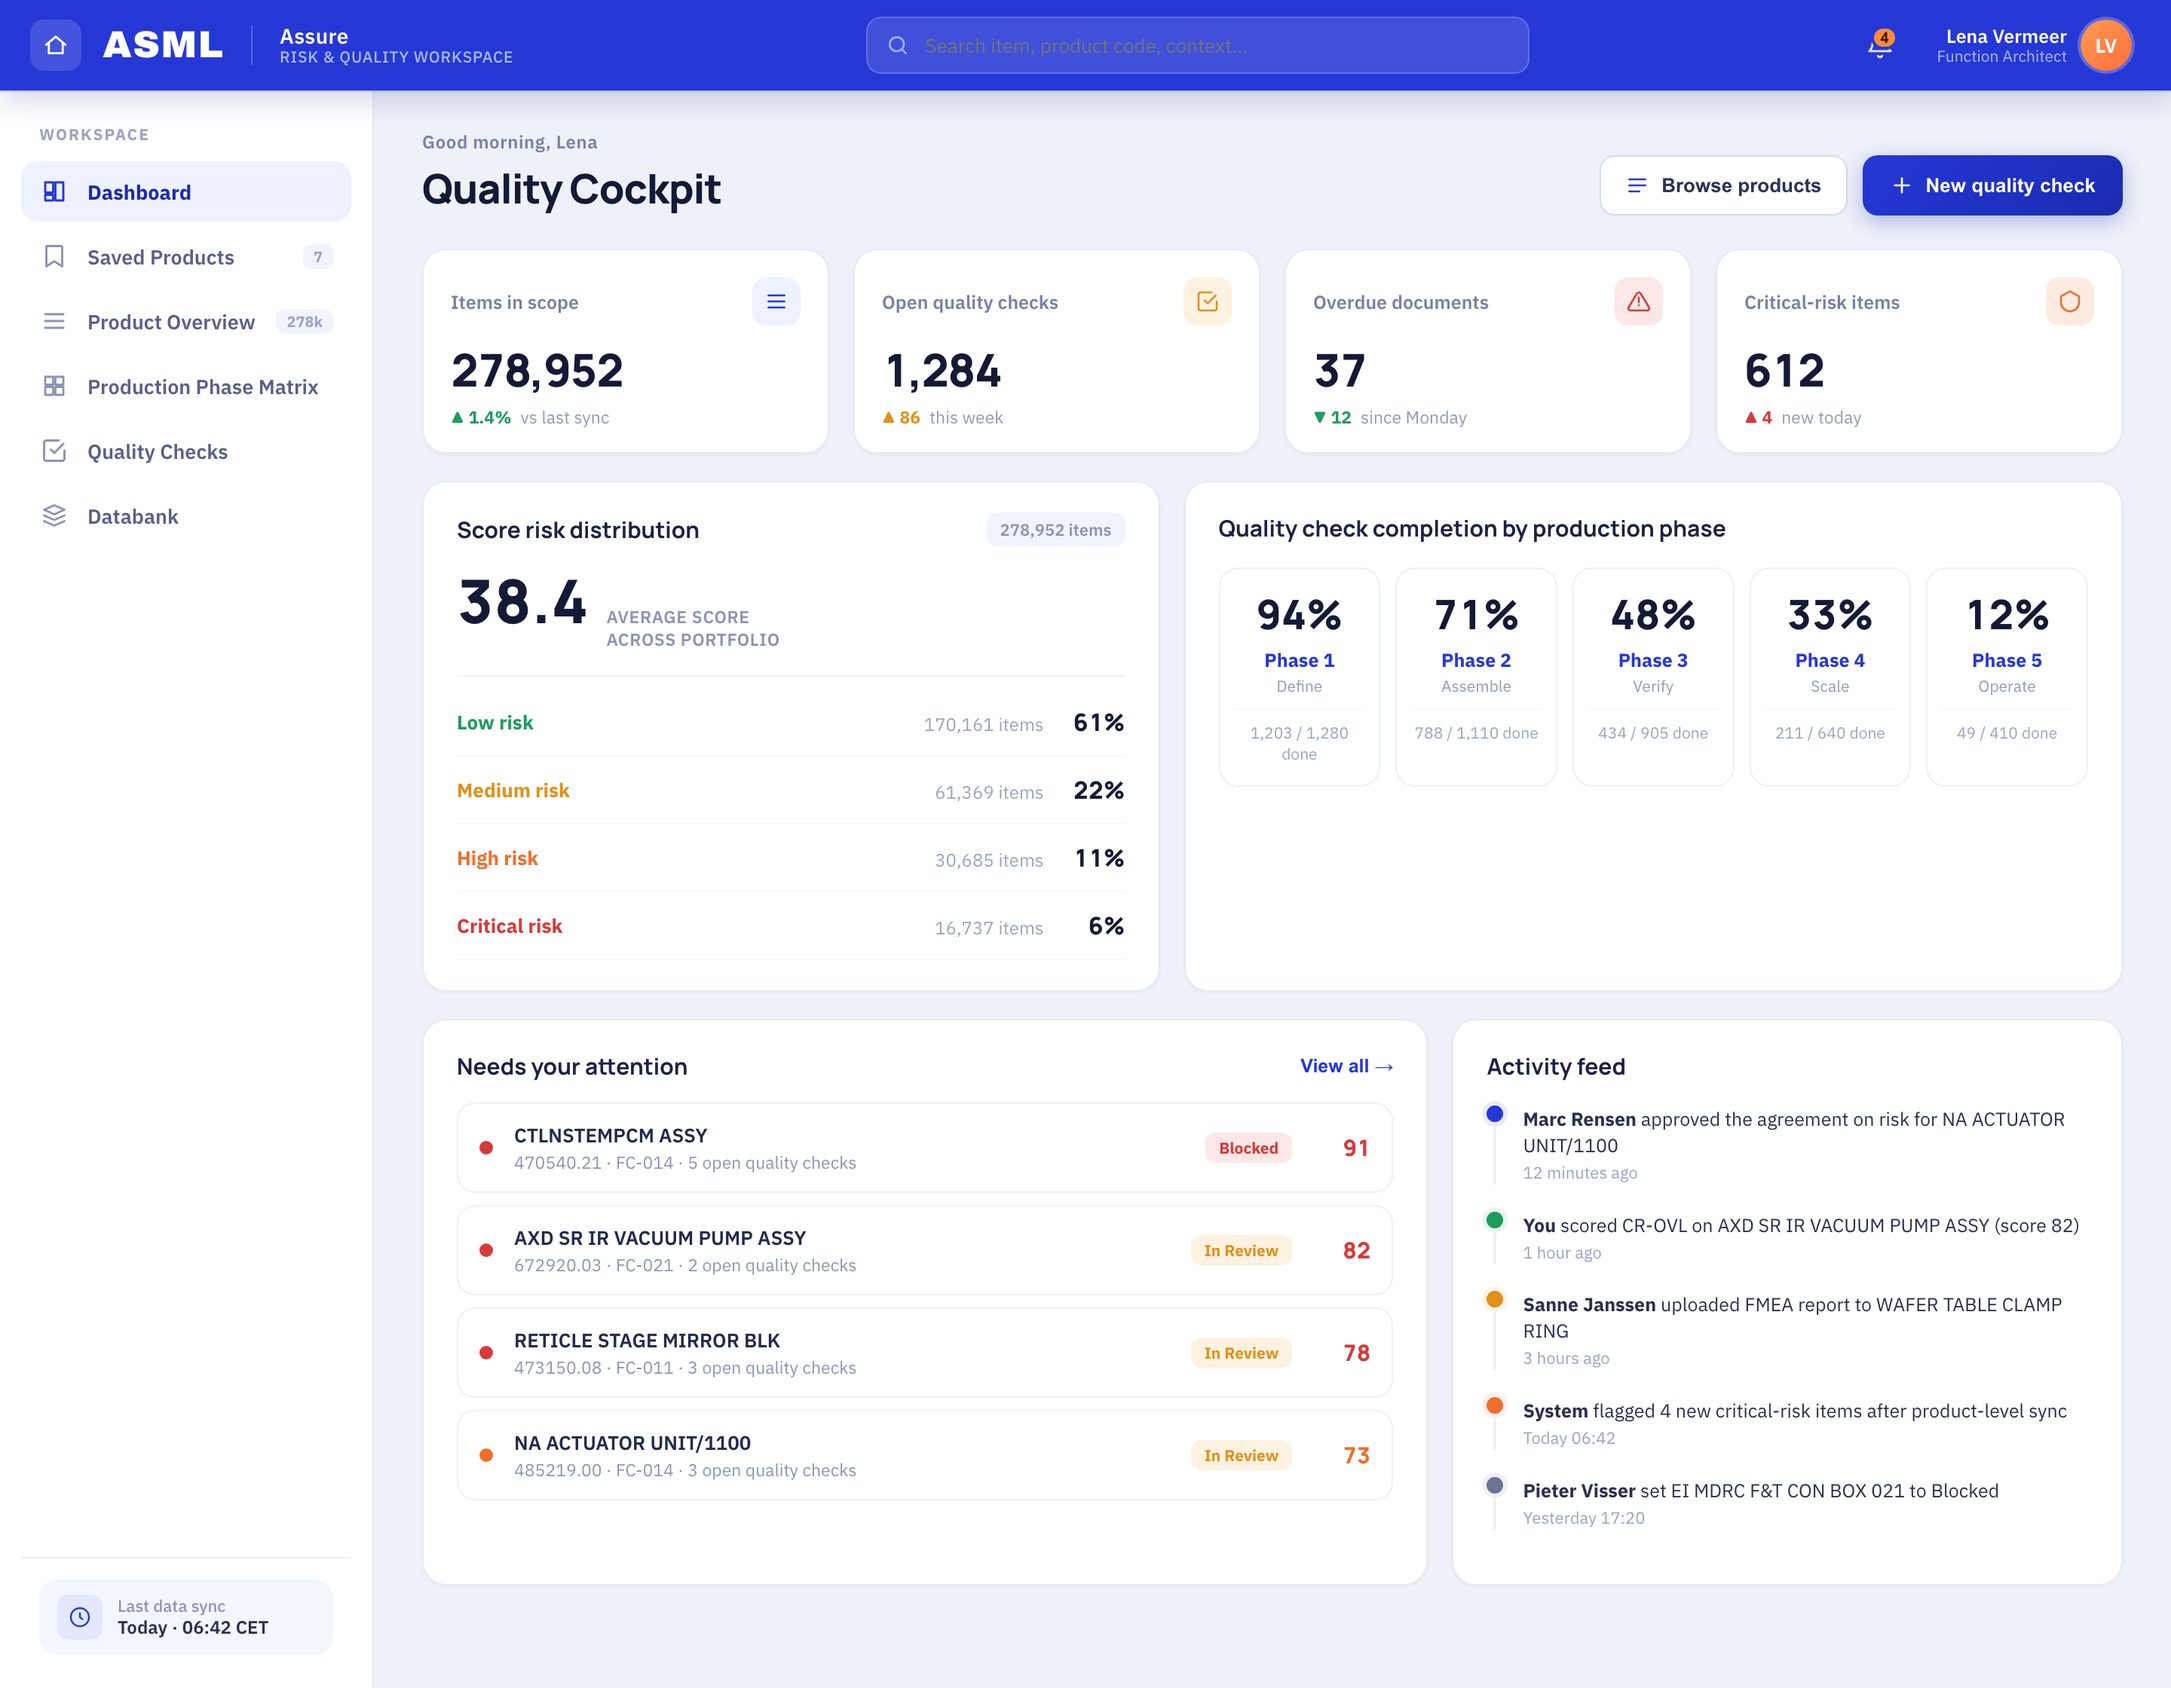
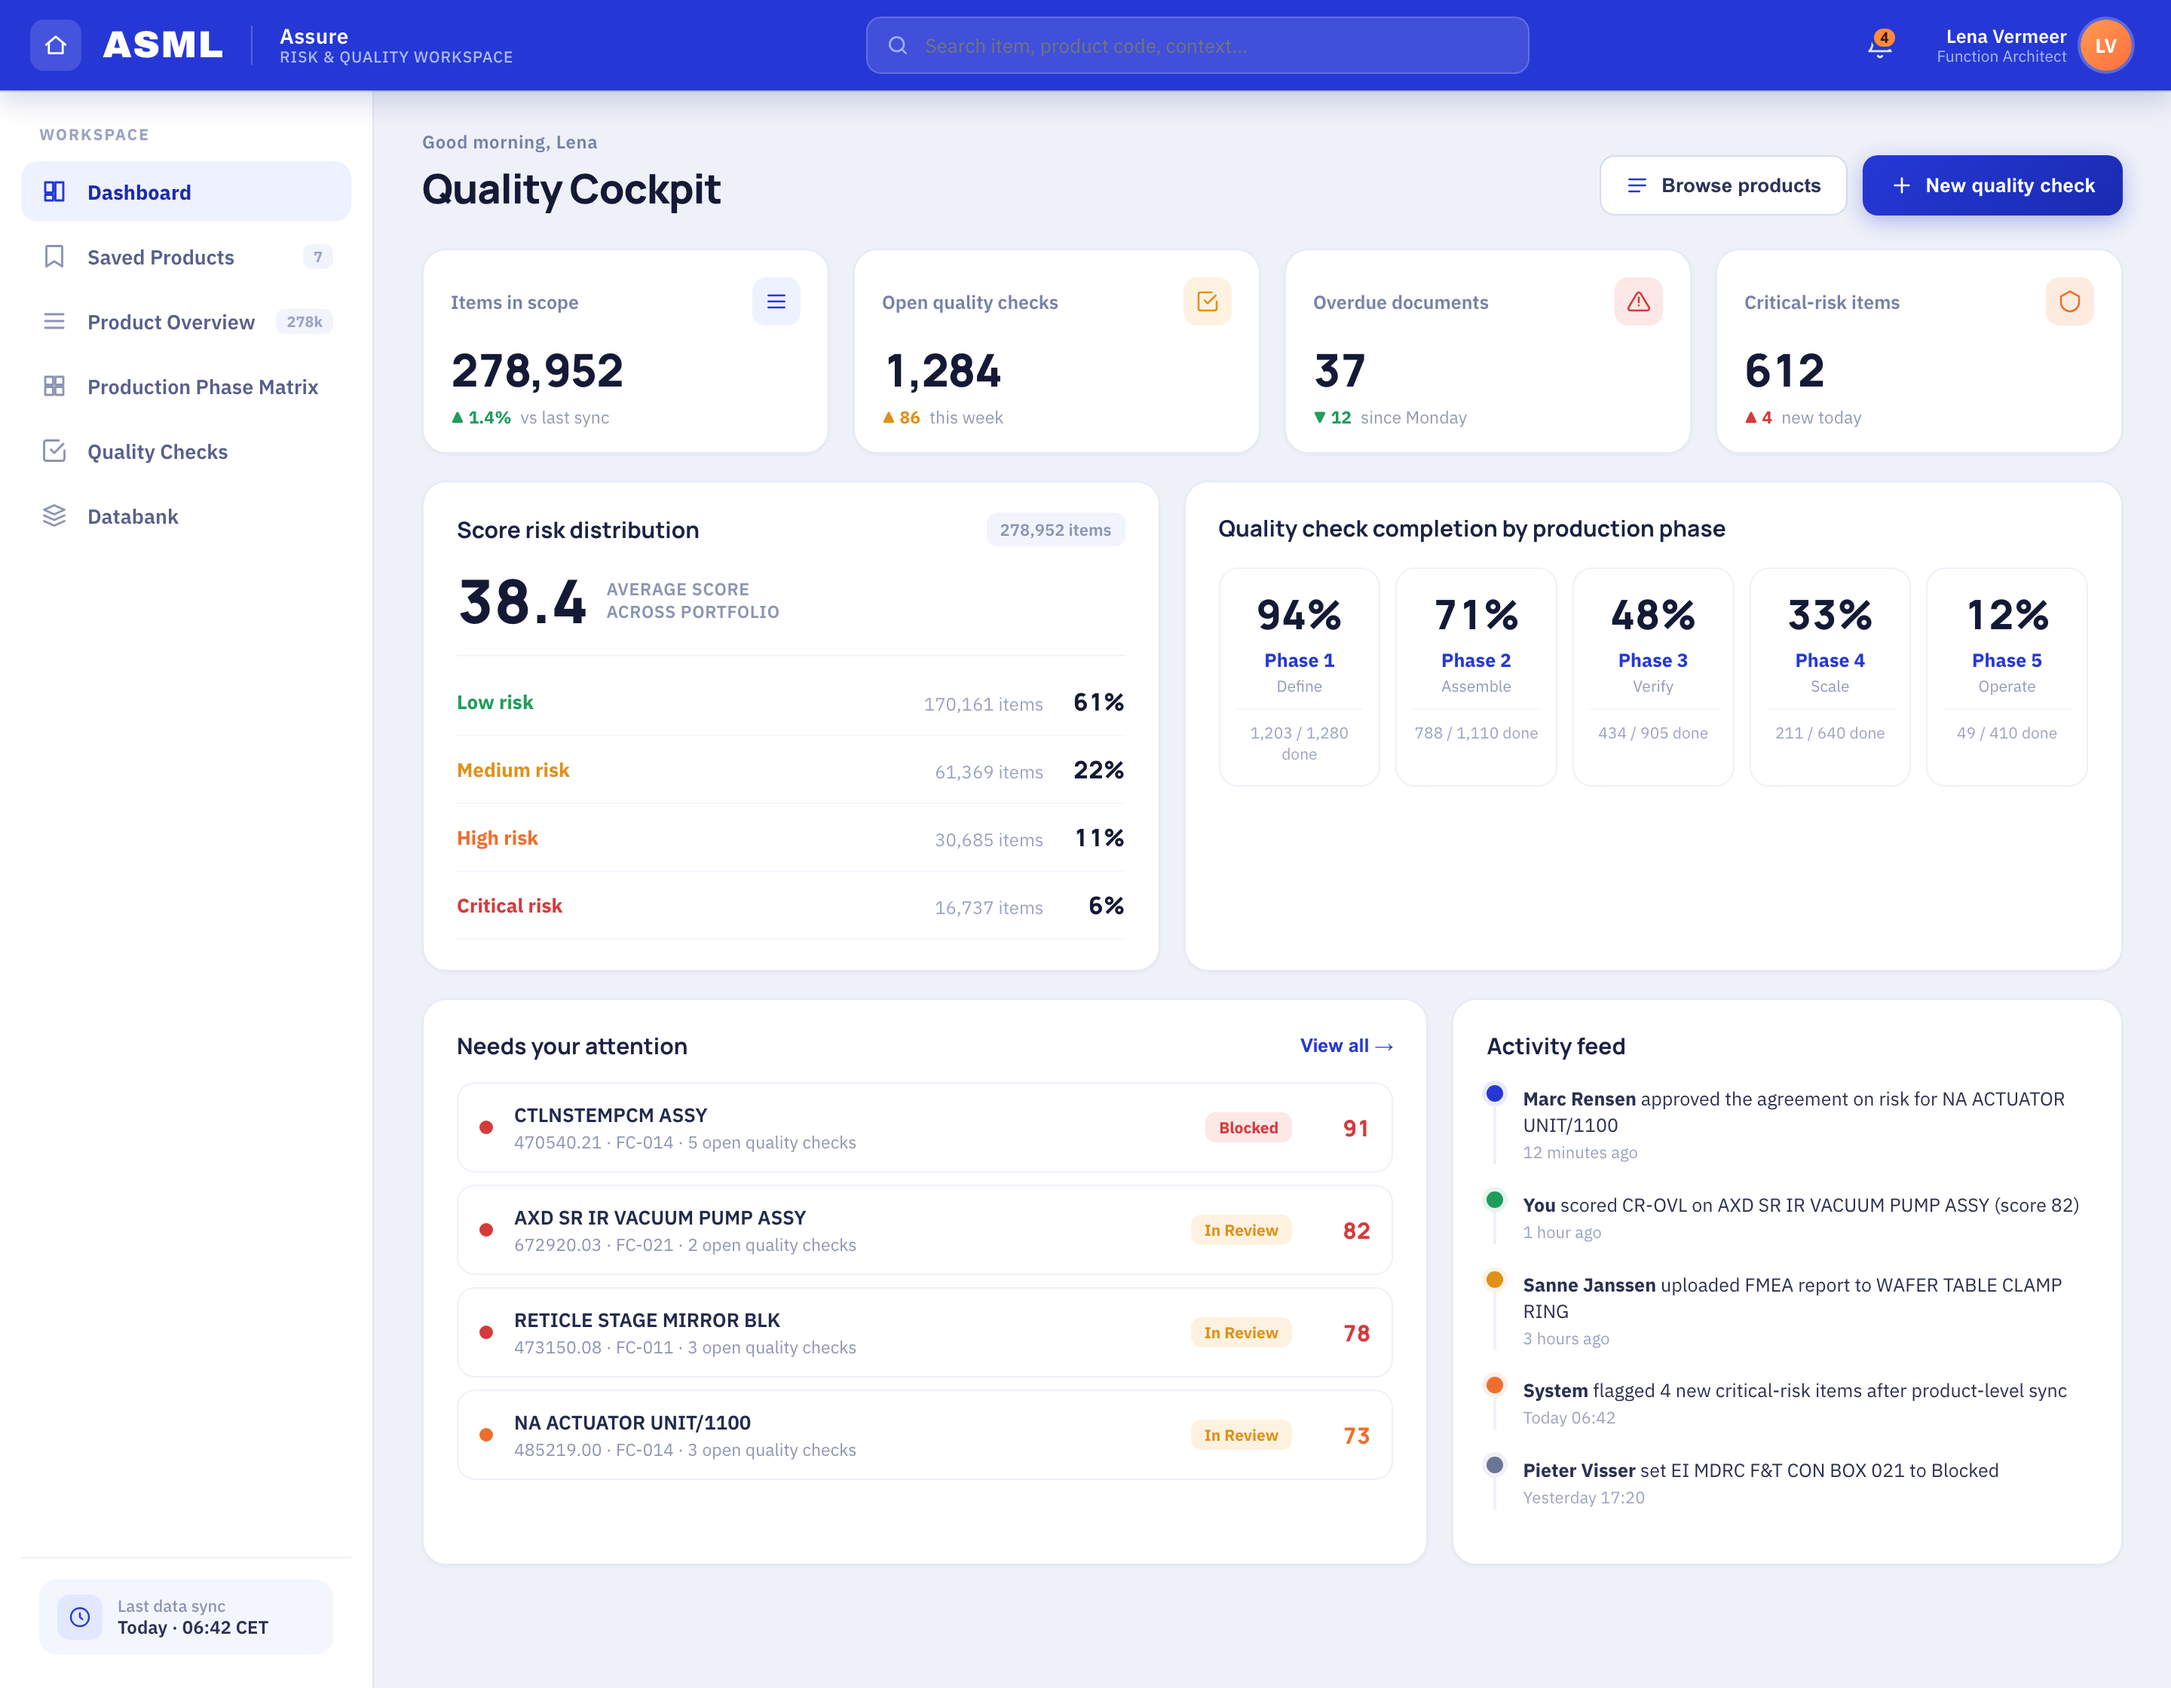
ASML Workflow prototype: score label centred next to the 38.4 number

diff --git a/public/prototypes/asml-redesign/qbtm-navigator.html b/public/prototypes/asml-redesign/qbtm-navigator.html
@@ -167,7 +167,7 @@
               <span style="font-size:11px;font-weight:600;color:#8c94b3;background:#f1f4fc;padding:4px 9px;border-radius:7px">278,952 items</span>
             </div>
             <div style="margin-top:6px">
-              <div style="display:flex;align-items:baseline;gap:12px;padding:10px 0 16px;border-bottom:1px solid #f1f4fc;margin-bottom:8px">
+              <div style="display:flex;align-items:center;gap:12px;padding:10px 0 16px;border-bottom:1px solid #f1f4fc;margin-bottom:8px">
                 <span style="font-family:'Manrope',sans-serif;font-size:40px;font-weight:800;color:#141a36;line-height:1">38.4</span>
                 <span style="font-size:11.5px;font-weight:600;color:#8c94b3;letter-spacing:.3px;line-height:1.3">AVERAGE SCORE<br>ACROSS PORTFOLIO</span>
               </div>
